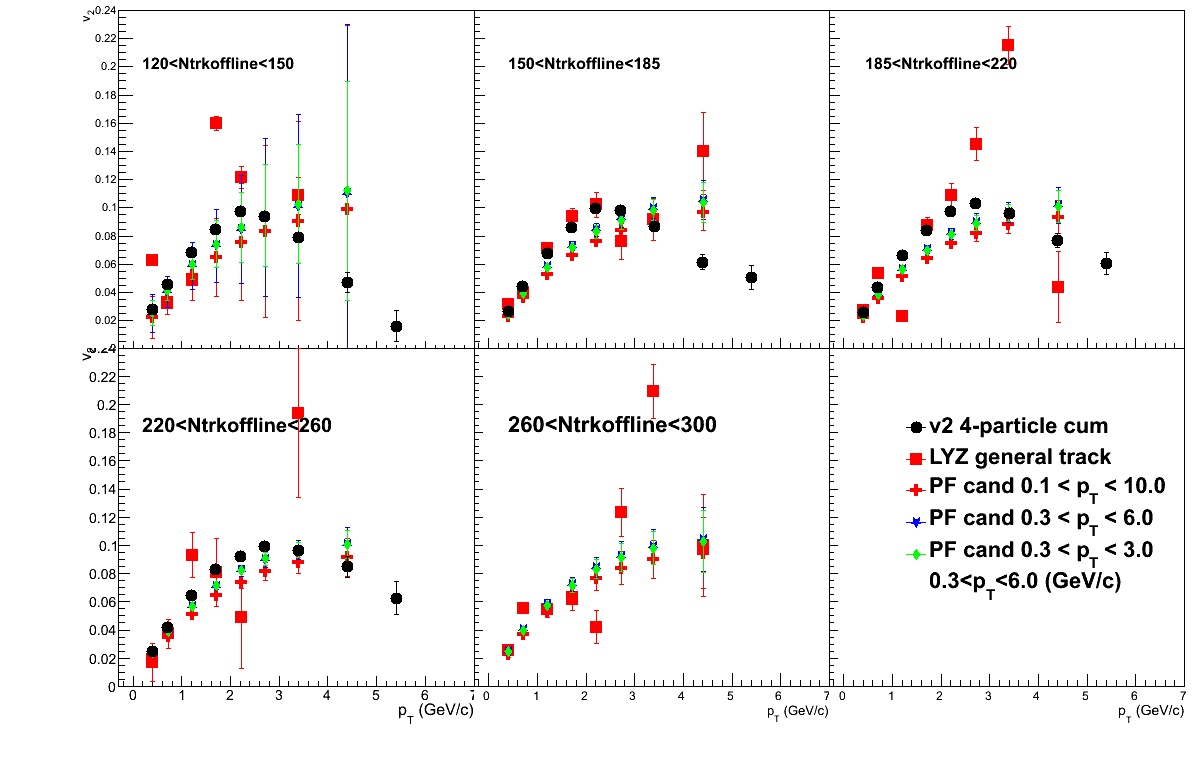
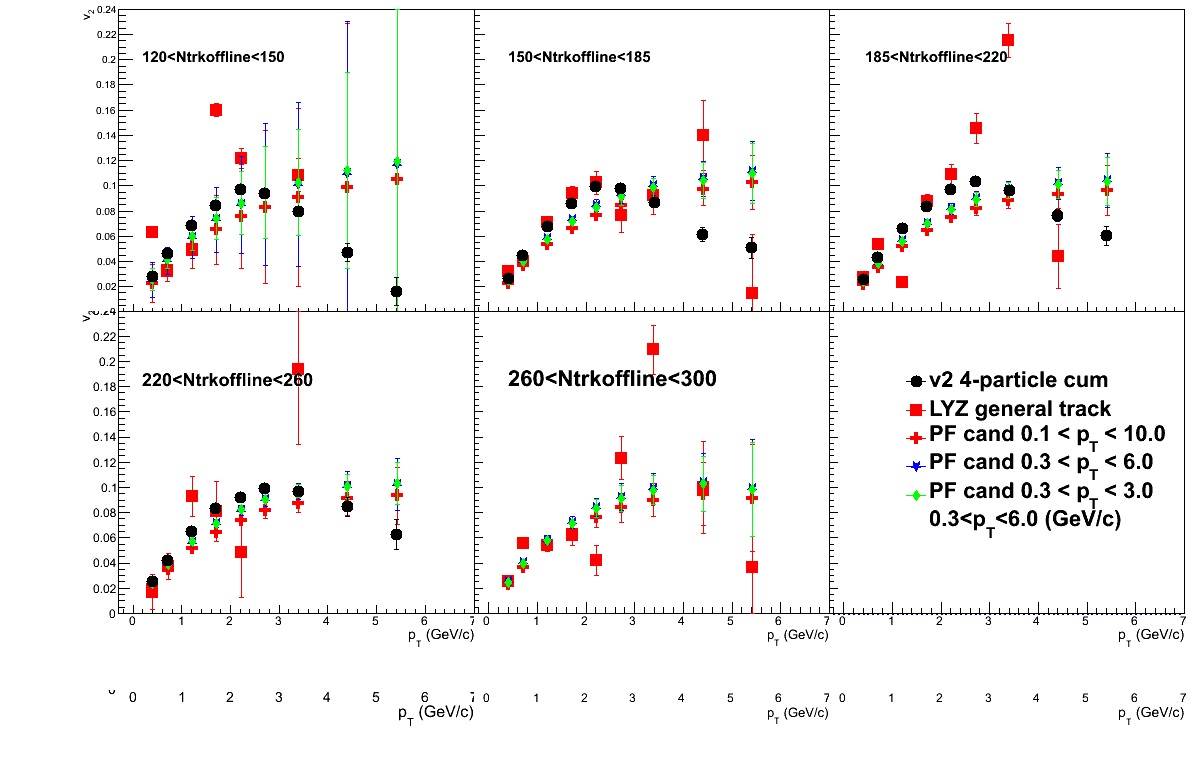
v2

diff --git a/flow/LYZ/v2/plotv2vspt.C b/flow/LYZ/v2/plotv2vspt.C
@@ -113,7 +113,7 @@ TGraphErrors* plot(TString dir, int isSum, int color, int marker, int i){
 	double *avgpt = vecDavgpt->GetMatrixArray();
 	double *v2 = vecDv2->GetMatrixArray();
 	double *v2err = vecDv2err->GetMatrixArray();
-	int npt = vecDavgpt->GetUpb();
+	int npt = vecDavgpt->GetNrows();
 	
 	TGraphErrors *gr=new TGraphErrors(npt,avgpt,v2,0,v2err);
 	gr->SetMarkerStyle(marker);
